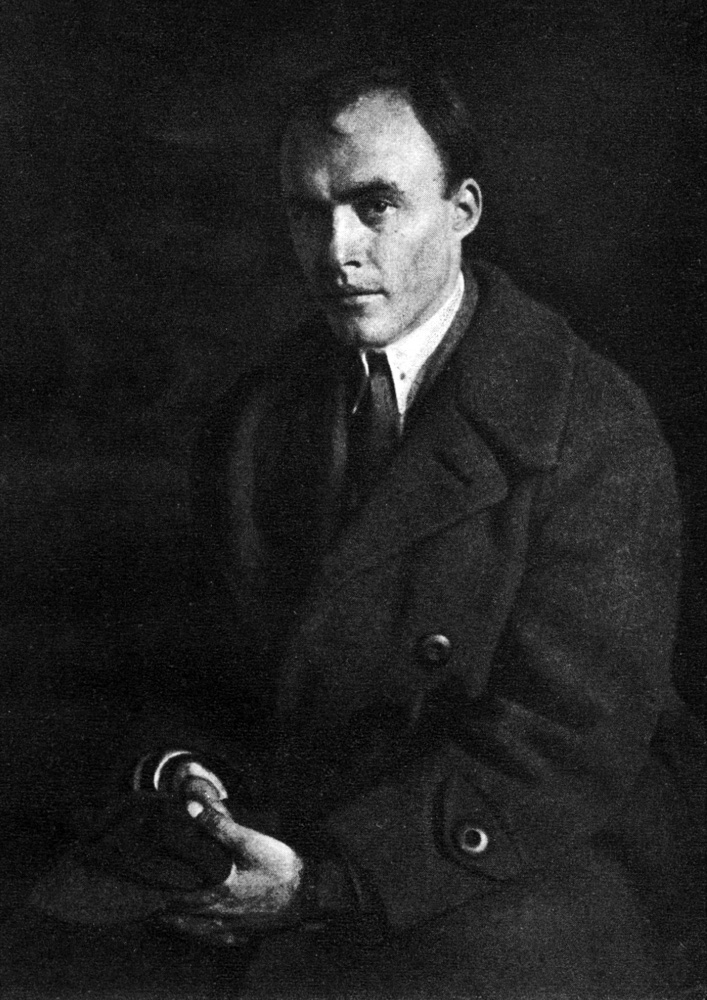
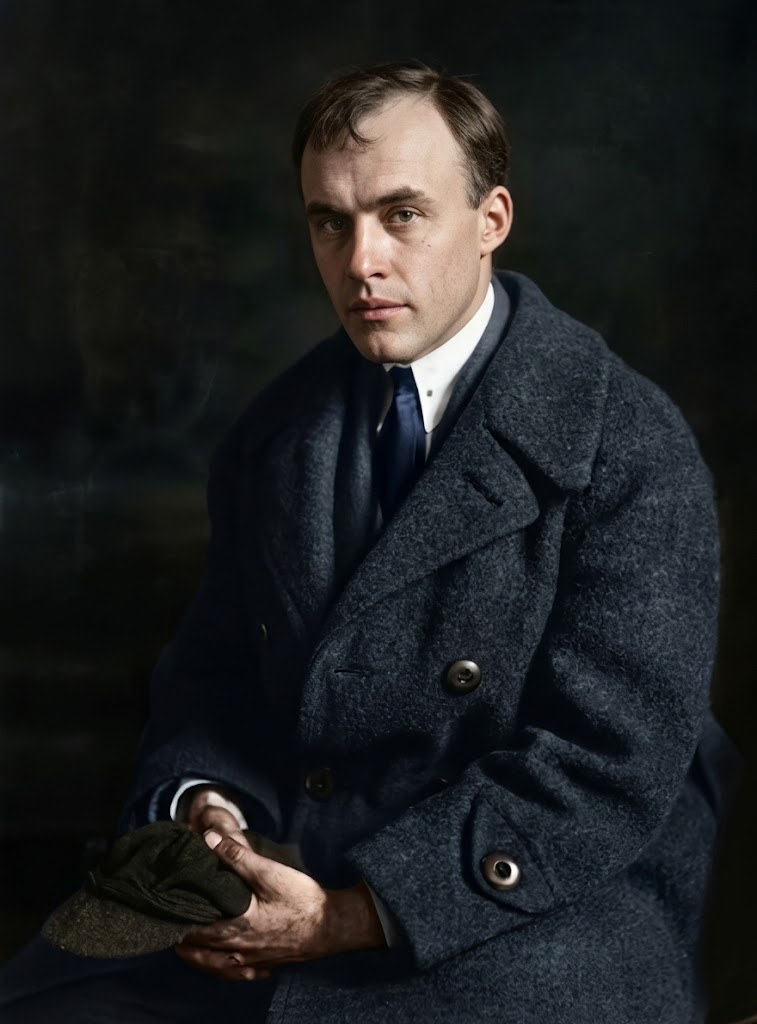
Approve Vlyzko and Falkivskyi with AI-colorized portraits

diff --git a/src/content/people/uk/dmytro-falkivskyi.md b/src/content/people/uk/dmytro-falkivskyi.md
@@ -26,6 +26,7 @@ image:
   author: "О. Кореневич (книжка «Письменники Радянської України», 1928)"
   license: "Public domain"
   source_url: "https://commons.wikimedia.org/wiki/File:Dmytro_Falkivskiy.jpg"
+  ai_edit: colorized
 sources:
   - title: "Енциклопедія історії України - Фальківський Дмитро Никанорович (автор - Г. П. Герасимова)"
     url: "https://resource.history.org.ua/cgi-bin/eiu/history.exe?Z21ID=&I21DBN=EIU&P21DBN=EIU&S21STN=1&S21REF=10&S21FMT=eiu_all&C21COM=S&S21CNR=20&S21P01=0&S21P02=0&S21P03=TRN%3D&S21COLORTERMS=0&S21STR=Falkivskyj_D"
@@ -37,7 +38,8 @@ sources:
     url: "https://uinp.gov.ua/dekomunizaciya-ta-reabilitaciya/pereliku-osib-ta-podiy-shcho-mistyat-symvoliku-rosiyskoyi-imperskoyi-polityky"
 related: [hryhorii-kosynka, oleksa-vlyzko, kost-burevii]
 collections: [executed-renaissance]
-status: draft
+status: approved
+published: 2026-10-18T22:47:17Z
 ---
 
 ## Поет із прізвищем, якого не було

diff --git a/src/content/people/uk/oleksa-vlyzko.md b/src/content/people/uk/oleksa-vlyzko.md
@@ -26,6 +26,7 @@ image:
   author: "Невідомий автор (фронтиспис книжки «Збірка творів», т. 1, 1932)"
   license: "Public domain"
   source_url: "https://commons.wikimedia.org/wiki/File:Oleksa_Vlyzko.jpg"
+  ai_edit: colorized
 sources:
   - title: "Internet Encyclopedia of Ukraine - Vlyzko, Oleksa"
     url: "https://www.encyclopediaofukraine.com/display.asp?linkpath=pages%5CV%5CL%5CVlyzkoOleksa.htm"
@@ -37,7 +38,8 @@ sources:
     url: "https://zbruc.eu/node/30591"
 related: [hryhorii-kosynka, dmytro-falkivskyi, kost-burevii]
 collections: [executed-renaissance]
-status: draft
+status: approved
+published: 2026-10-18T22:45:54Z
 ---
 
 ## Поет, який не чув
